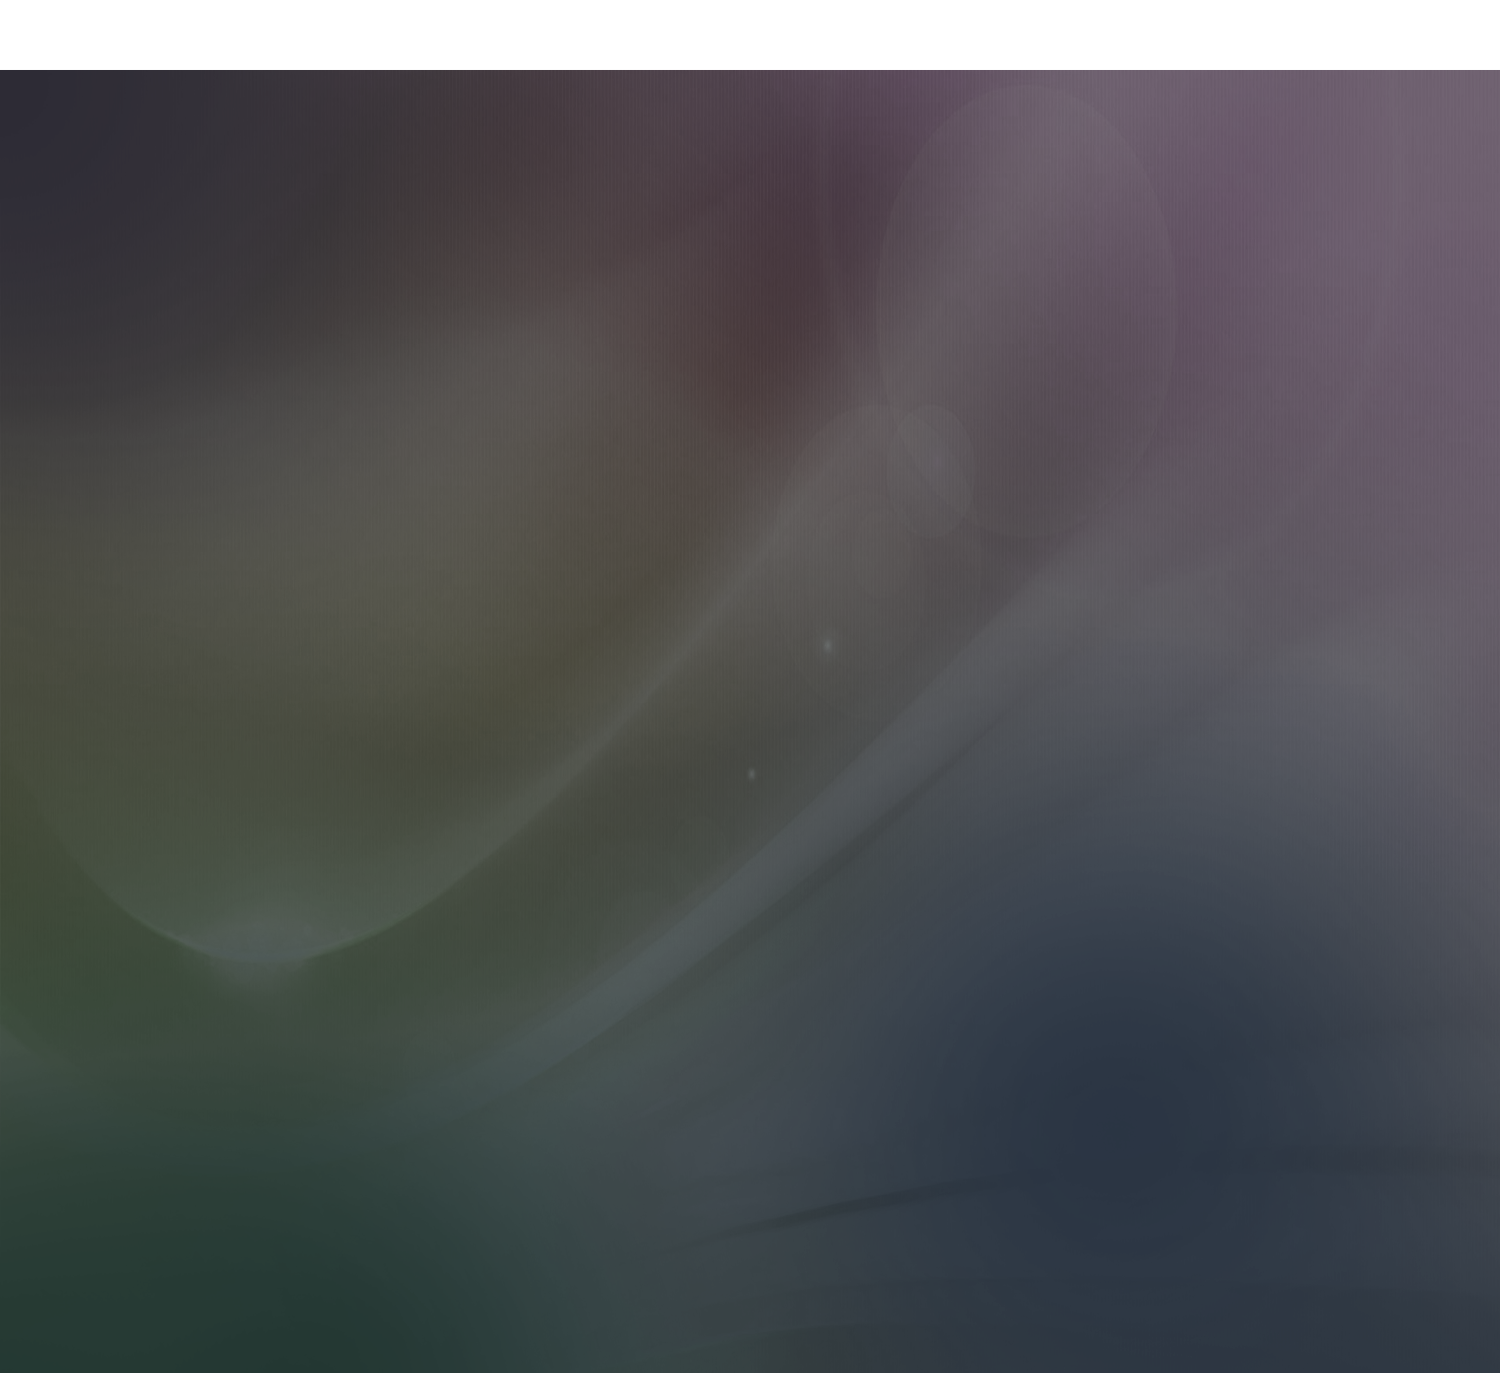
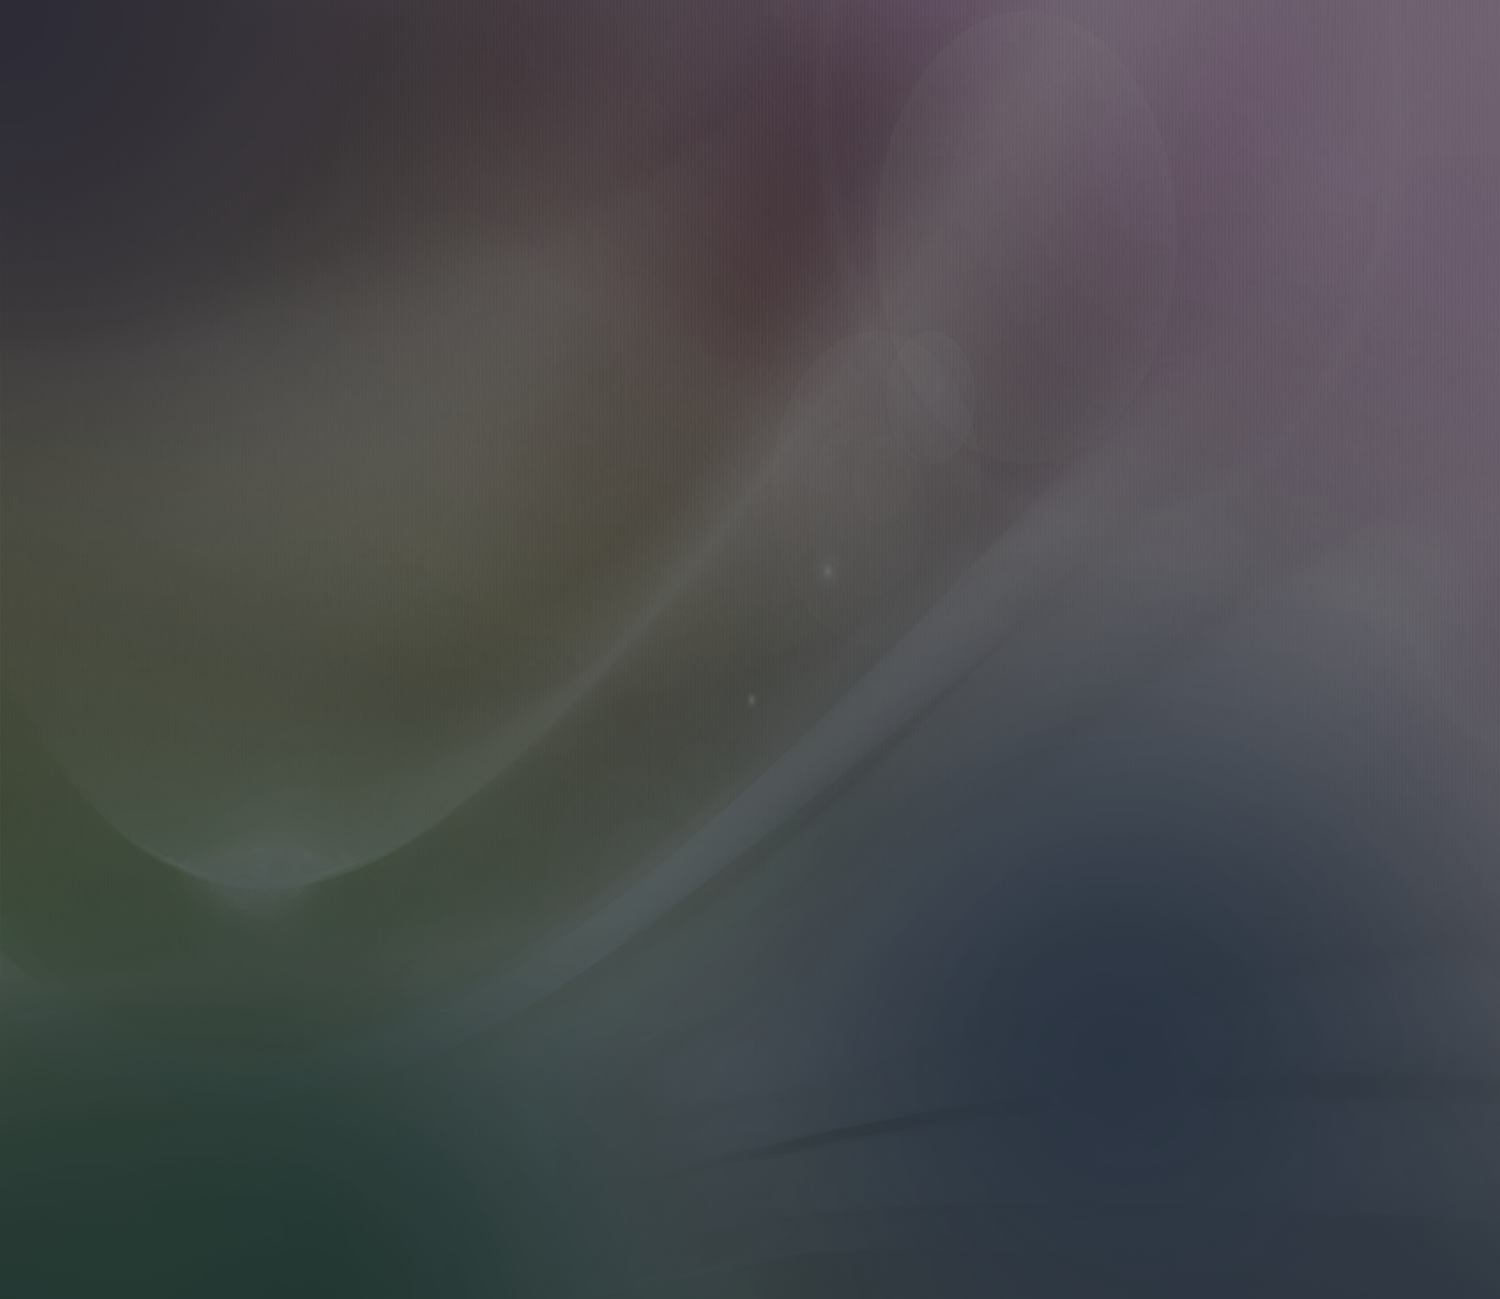
Photos update
- changed background img for footer
- fixed icons in grey photos

Changed region(s): [[0.0, 0.0, 1.0, 0.0616]]

diff --git a/src/components/boxes/boxes.tsx b/src/components/boxes/boxes.tsx
@@ -11,7 +11,7 @@ const Boxes: React.FC = (): JSX.Element => {
             <div className="myContainer">
                 <Box>
                     <p>Text from box {chosenBox}</p>
-                    Lorem, ipsum dolor sit amet consectetur adipisicing elit. Ipsum omnis eius deleniti perferendis dolorum minima quasi natus facere porro quaerat. Iure minus alias soluta aliquid natus minima voluptate, laborum dicta quam in suscipit. Officiis corrupti, modi vel, sunt, corporis eligendi cupiditate suscipit obcaecati eius delectus iure aliquid. Rem unde nemo voluptatum incidunt deleniti sed eligendi sapiente beatae ab dolorum veniam accusantium dolor, temporibus, in explicabo error ex velit, voluptates tempore consequatur doloribus quas aliquid? Adipisci quos molestias esse possimus qui? Odit voluptate neque officiis enim quia voluptas debitis blanditiis delectus nulla voluptatem, quae quod similique iure quis. Aspernatur, repudiandae! Obcaecati.
+                    Lorem ipsum dolor sit amet consectetur, adipisicing elit. Nemo, magnam aperiam ea blanditiis neque voluptatibus sint accusantium architecto exercitationem illo? Impedit odio reiciendis odit corporis eveniet explicabo, perspiciatis cupiditate assumenda, officiis inventore hic voluptas natus vel nisi, autem aliquid vitae harum ab. Cum nobis repellendus commodi provident voluptate quis possimus explicabo tempore corrupti officia. Eius mollitia distinctio accusamus libero nostrum soluta iusto, sequi suscipit quis accusantium magni debitis tempora itaque aperiam porro, pariatur rem dicta quasi! Dolor iste accusantium, voluptates possimus dolore earum quaerat architecto exercitationem ullam officia fuga voluptatem corporis iure, error quisquam perspiciatis ipsa provident officiis voluptate. Ipsum dignissimos accusamus necessitatibus modi eveniet mollitia dolores eius exercitationem aliquam repellat ratione alias eum, vero tempora qui praesentium maxime sit obcaecati tenetur voluptatem fugit aliquid minus accusantium. Earum iure alias quo placeat ullam corrupti? Magni natus perferendis ullam ducimus iusto in quod temporibus eum? Fugiat, sapiente cumque suscipit voluptate aperiam fuga eos sint vel eaque dolorum temporibus quasi illum odit nemo necessitatibus quis vero saepe ut ea cupiditate! Voluptas error ut id excepturi cum nostrum accusamus sed laudantium enim exercitationem totam facilis aliquid velit dolor repellat magnam cumque alias inventore, perferendis deleniti fuga? Voluptatibus, expedita modi illo obcaecati laudantium quaerat.
                 </Box>
                 <ButtonsWrapper>
                     <BoxButton top='4rem' left='1rem' onClick={() => setChosenBox(1)} text='1' active={chosenBox === 1 && true} color={theme.colors.boxes.yellow}/>

diff --git a/src/components/greyPhoto/greyPhoto.styles.ts b/src/components/greyPhoto/greyPhoto.styles.ts
@@ -51,11 +51,11 @@ export const Overlay = styled.div<{ side: Side }>`
     @media only screen and (max-width: 992px) and (min-width: 601px) {
         clip-path: polygon(${({ side }) => side === 'left' ? '0 0, 100% 0, 100% 100%, 0 0' : '0 0, 100% 0, 0 100%, 0 100%'});
         &::after {
-            top: 0;
+            top: 1rem;
             left: 1rem;
         }
         &::before {
-            top: 0;
+            top: 1rem;
             right: 1rem;
         }
     }
@@ -67,7 +67,7 @@ export const Overlay = styled.div<{ side: Side }>`
         }
         &::after {
             left: 1rem;
-            top: 0;
+            top: 1rem;
         }
     }
 `

diff --git a/src/components/footer/footer.styles.ts b/src/components/footer/footer.styles.ts
@@ -1,7 +1,9 @@
 import styled from 'styled-components'
 
+import BackgroundImg from '../../images/photosBackground.png';
+
 export const Wrapper = styled.div`
     padding: 2rem 0;
-    background: url('https://images.unsplash.com/photo-1604170872253-1da9834f1e62?ixlib=rb-1.2.1&ixid=eyJhcHBfaWQiOjEyMDd9&auto=format&fit=crop&w=634&q=80') center;
+    background: url(${BackgroundImg}) center;
     background-size: cover;
 `
